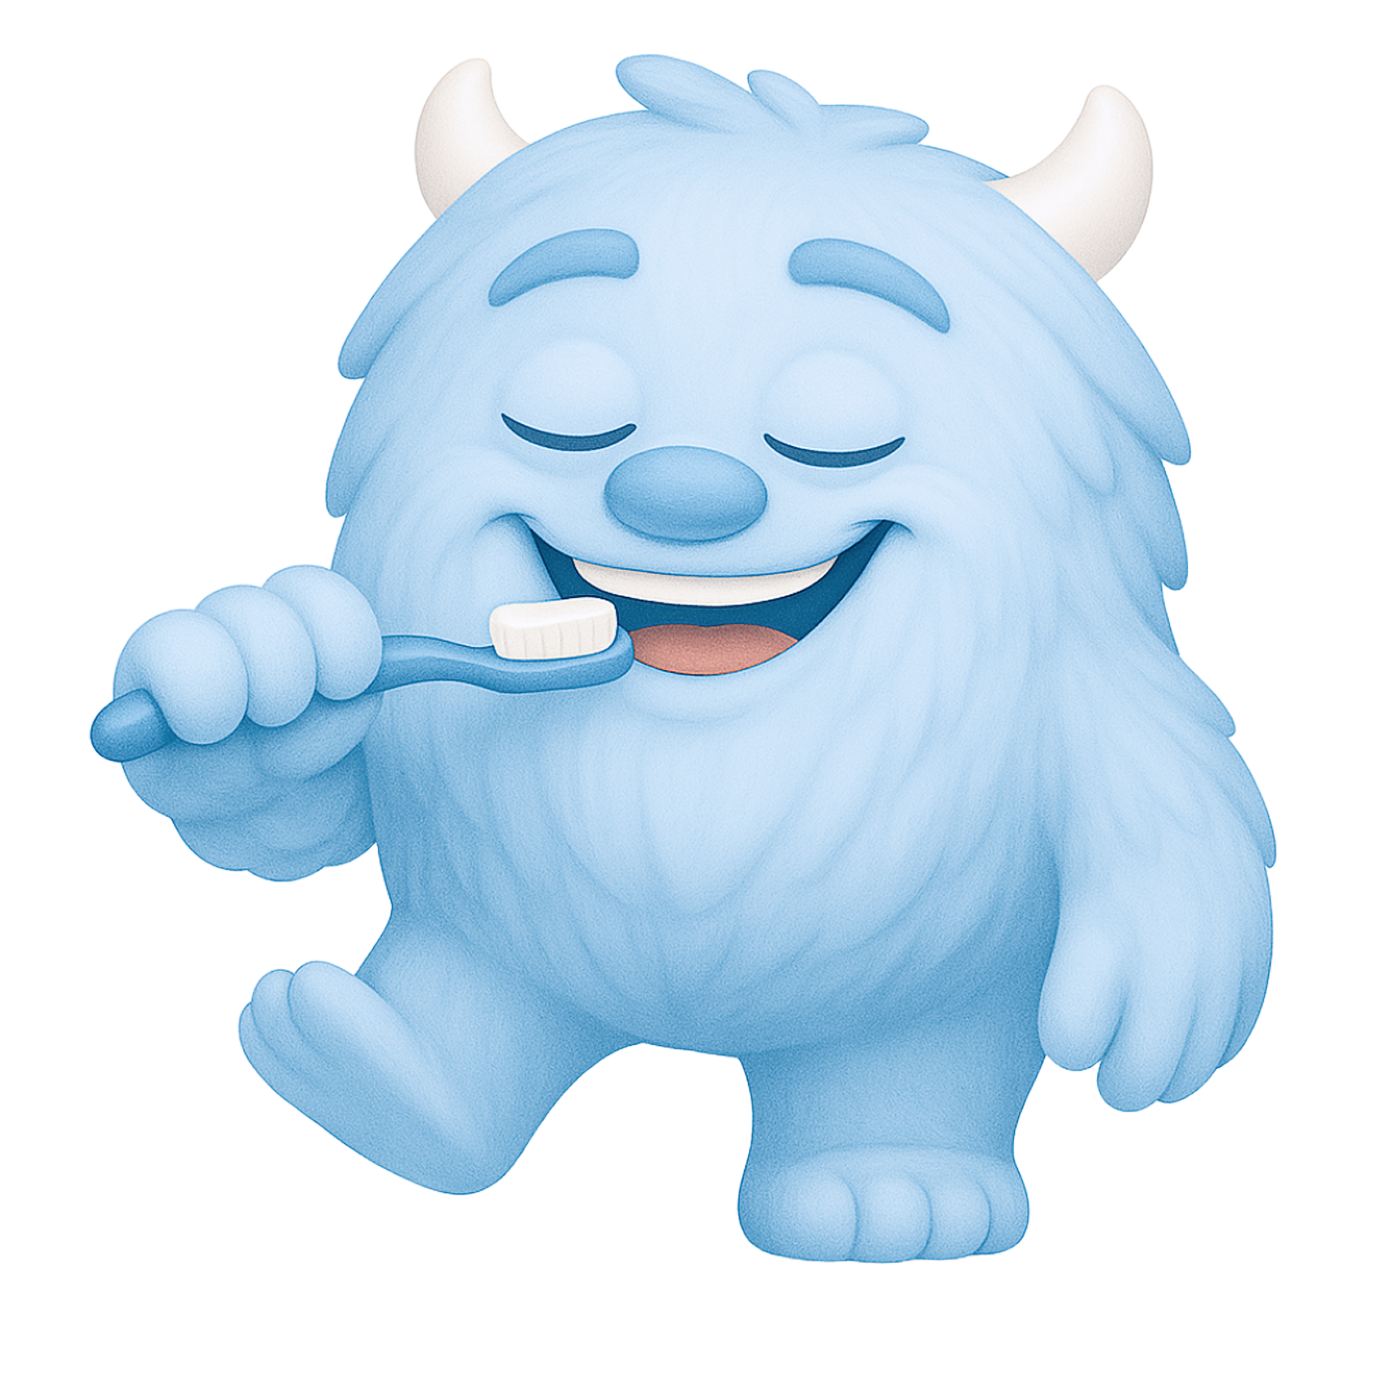
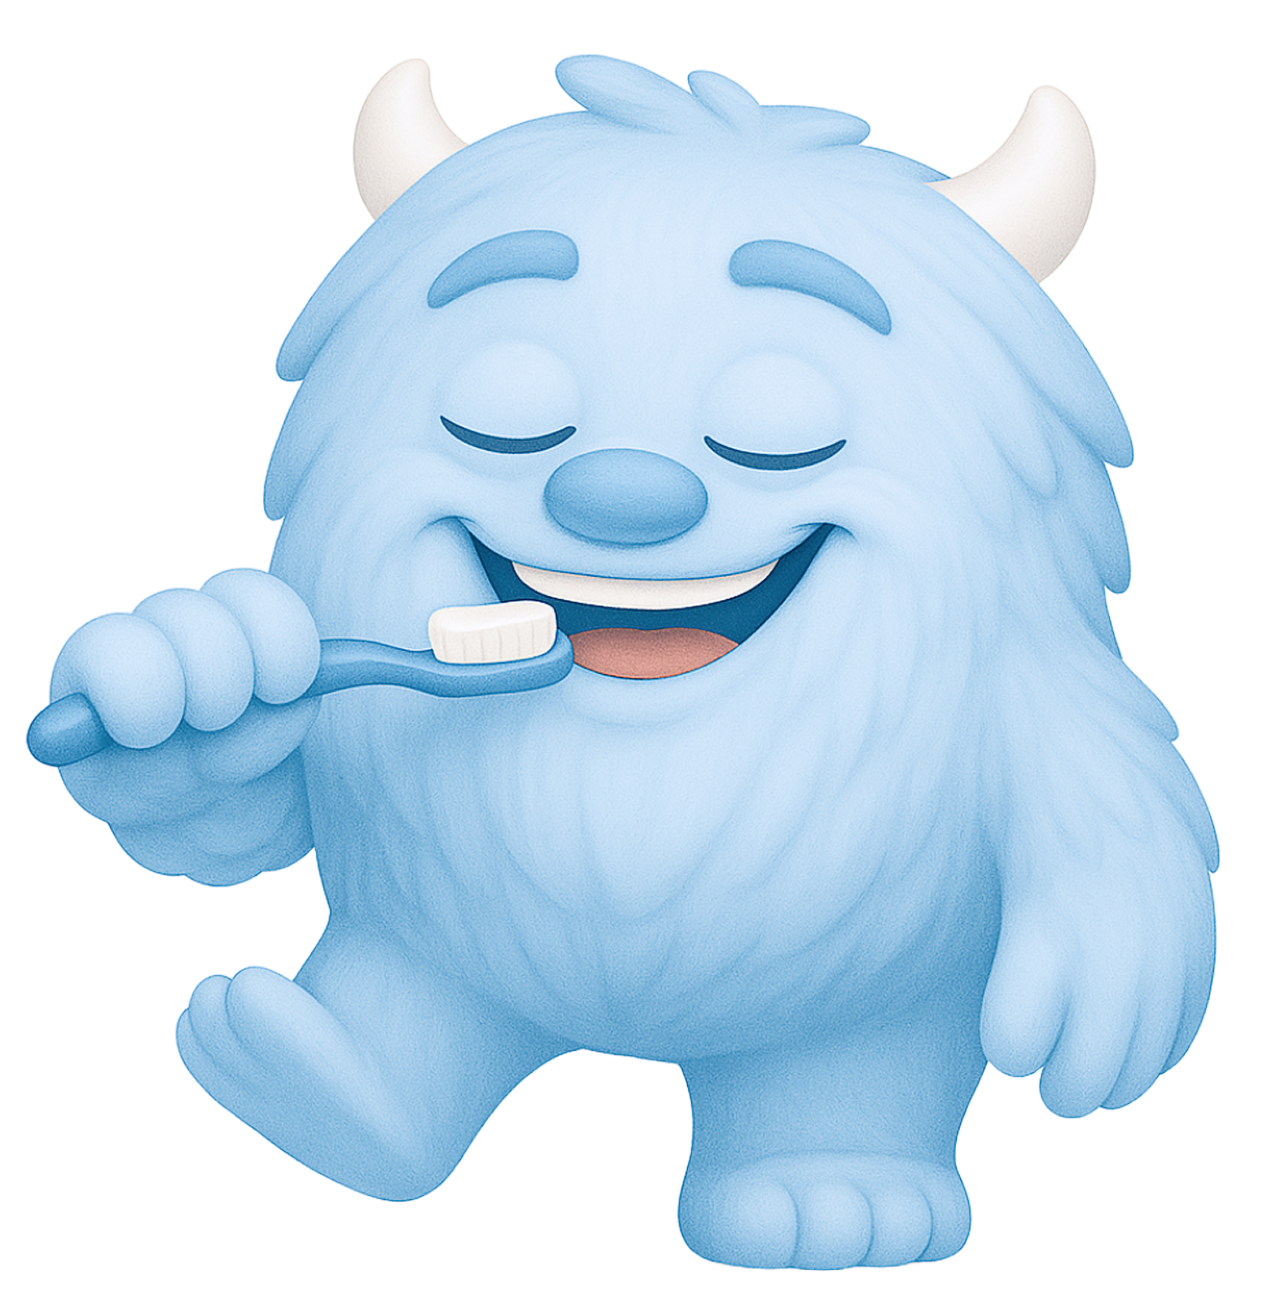
fix: Update mascot images and adjust styling for improved layout in Signin and Signup screens

diff --git a/app/onboarding/signin.tsx b/app/onboarding/signin.tsx
@@ -170,7 +170,7 @@ export default function SigninScreen() {
           />
           
           <Image
-            source={require('../../assets/mascot/nubo-glasses-1.png')}
+            source={require('../../assets/mascot/nubo-welcoming-1.png')}
             style={styles.mascotImage}
           />
           
@@ -285,10 +285,10 @@ const styles = StyleSheet.create({
   },
   mascotImage: {
     position: 'absolute',
-    width: 170,
-    height: 170,
-    right: 0,
-    bottom: 385,
+    width: 185,
+    height: 185,
+    right: 10,
+    bottom: 377,
     zIndex: 1,
     resizeMode: 'contain',
   },

diff --git a/components/ui/Mascot.tsx b/components/ui/Mascot.tsx
@@ -39,9 +39,9 @@ export default function Mascot({
       case 'waving':
         return require('../../assets/mascot/nubo-waving-1.png');
       case 'glasses':
-        return require('../../assets/mascot/nubo-glasses-1.png');
+        return require('../../assets/mascot/nubo-wise-1.png');
       case 'glasses-1-pp':
-        return require('../../assets/mascot/nubo-glasses-1-pp.png');
+        return require('../../assets/mascot/nubo-wise-1-pp.png');
       case 'brushing':
         return require('../../assets/mascot/nubo-brushing-1.png');
       case 'welcoming':

diff --git a/app/onboarding/signup.tsx b/app/onboarding/signup.tsx
@@ -278,8 +278,8 @@ const styles = StyleSheet.create({
     position: 'absolute',
     width: 180,
     height: 180,
-    right: 3,
-    bottom: 370,
+    right: 10,
+    bottom: 383,
     zIndex: 1,
     resizeMode: 'contain',
   },
